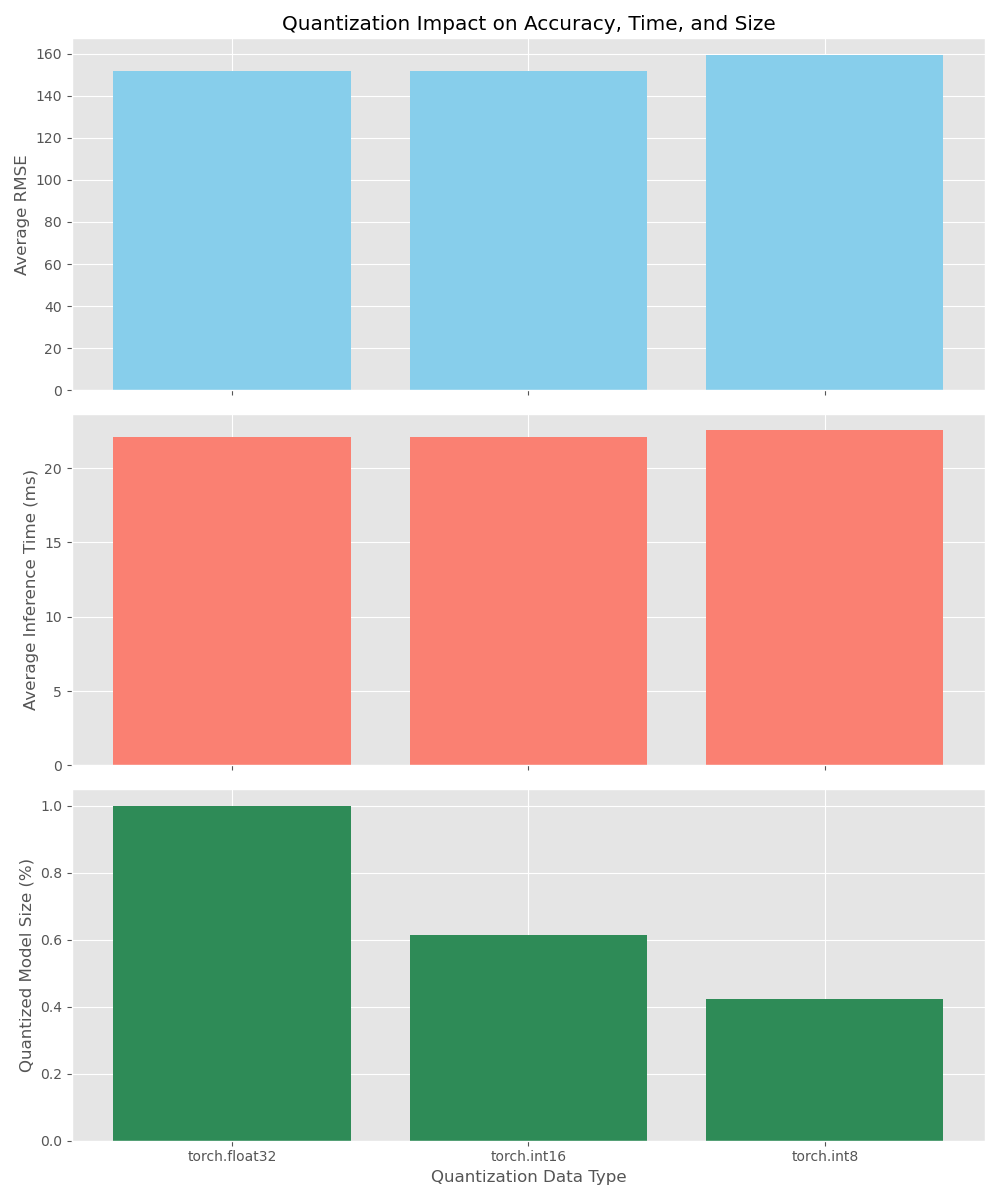
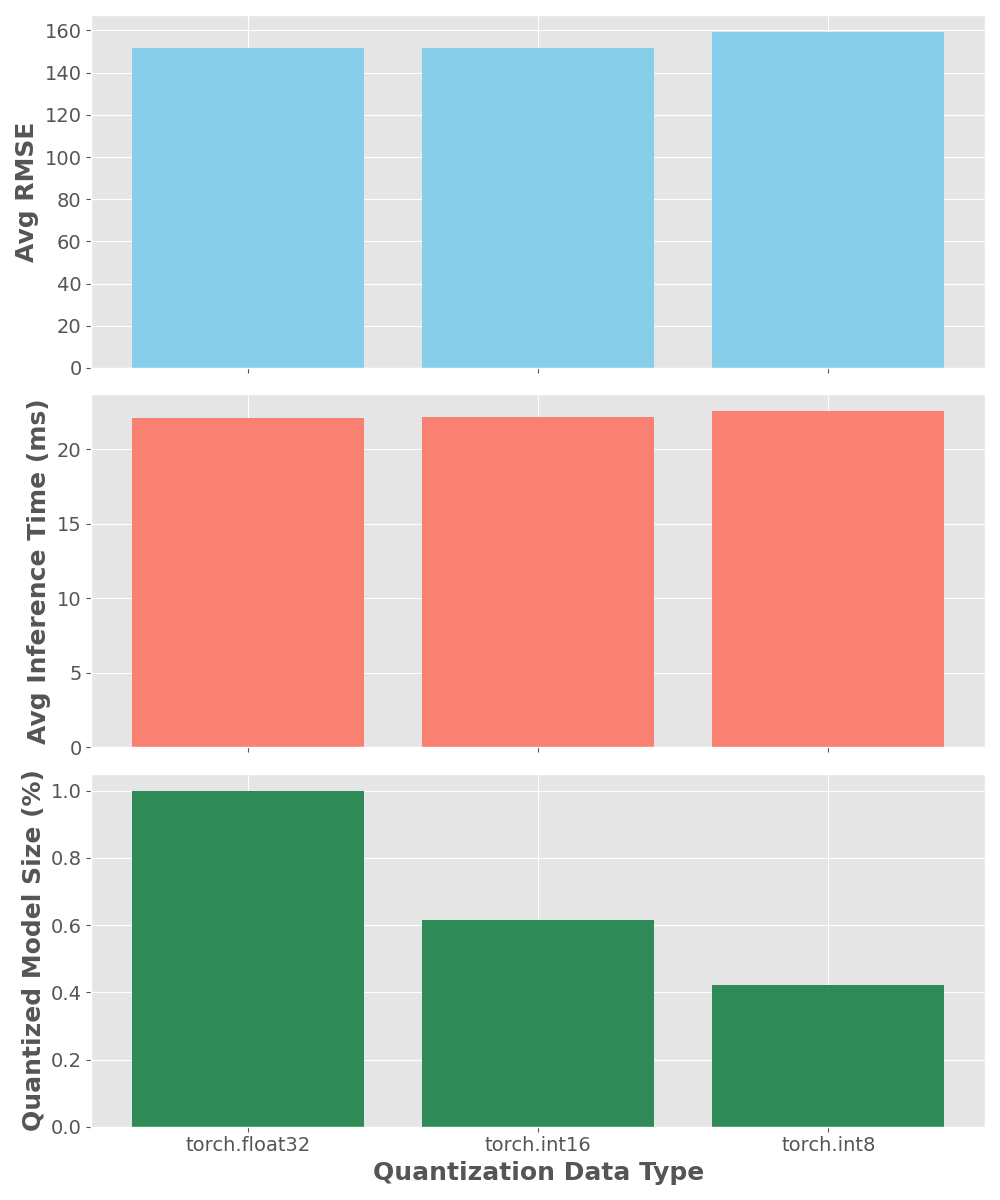
better figure parameters

Changed region(s): [[0.0, 0.0, 0.992, 0.9867], [0.713, 0.7708, 0.961, 0.8325], [0.806, 0.7092, 0.837, 0.74]]

diff --git a/plot_quantization.py b/plot_quantization.py
@@ -14,17 +14,19 @@ fig, axs = plt.subplots(3, 1, figsize=(10, 12), sharex=True)
 
 # Plot 1: Average Accuracy
 axs[0].bar(df['qdtype'], df['avg_rmse'], color='skyblue')
-axs[0].set_ylabel("Average RMSE")
-axs[0].set_title("Quantization Impact on Accuracy, Time, and Size")
+axs[0].set_ylabel("Avg RMSE", fontsize=18, fontweight='bold')
+axs[0].tick_params(axis='both', labelsize=14)
 
 # Plot 2: Average Time
 axs[1].bar(df['qdtype'], 1000*df['avg_time'], color='salmon')
-axs[1].set_ylabel("Average Inference Time (ms)")
+axs[1].set_ylabel("Avg Inference Time (ms)", fontsize=18, fontweight='bold')
+axs[1].tick_params(axis='both', labelsize=14)
 
 # Plot 3: Model Size Reduction
 axs[2].bar(df['qdtype'], df['quantized_model_size'], color='seagreen')
-axs[2].set_ylabel("Quantized Model Size (%)")
-axs[2].set_xlabel("Quantization Data Type")
+axs[2].set_ylabel("Quantized Model Size (%)", fontsize=18, fontweight='bold')
+axs[2].set_xlabel("Quantization Data Type", fontsize=18, fontweight='bold')
+axs[2].tick_params(axis='both', labelsize=14)
 
 plt.tight_layout()
 plt.savefig("quantization_results.png")
